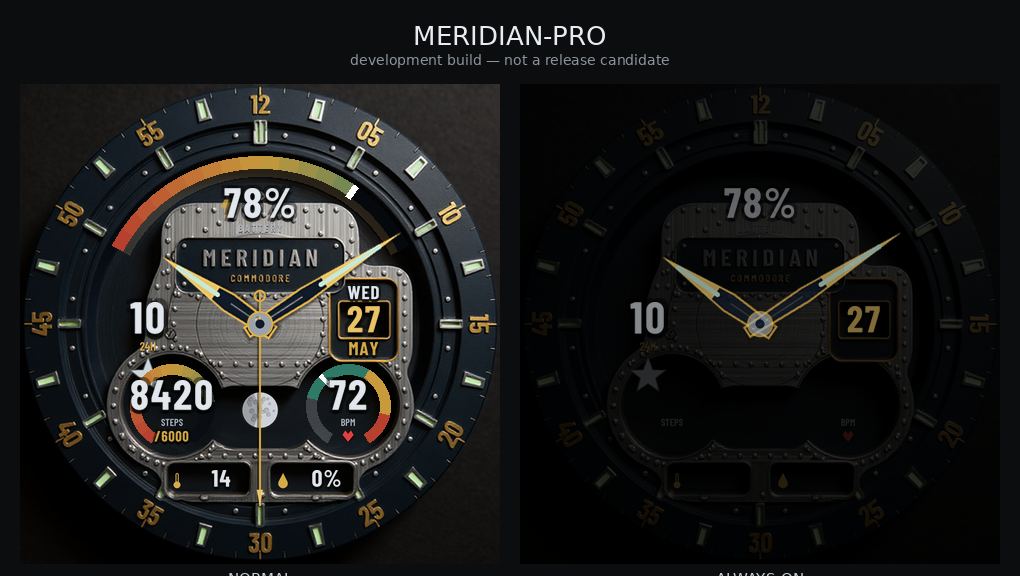
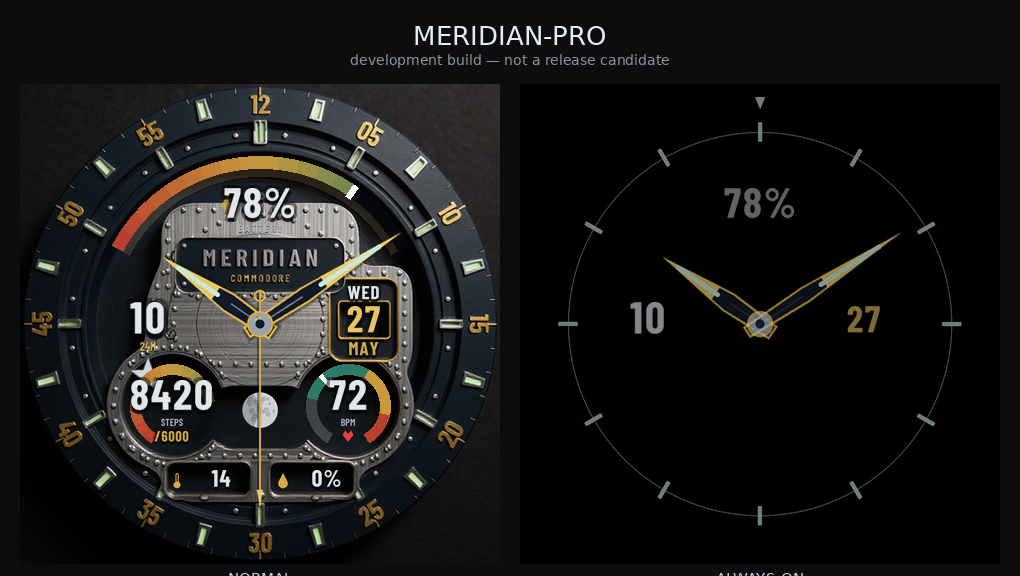
MERIDIAN PRO: the AOD becomes sparse, and passes its budget by 3.7x
A full-art dial dimmed to 18% still lights virtually every pixel, which
fails the on-pixel-ratio burn-in gate a commercial release must pass.
Ambient is now black carrying only the orientation skeleton - the twelve
lume cores, a hairline chapter circle, the lume triangle - under the dim
hands, 24H, day and battery readouts that were already ambient-rated.
Measured: 4.1% of the screen lit against the 15% budget, the same class as
AURELIUS's passing 3.97%.

diff --git a/tools/meridian_pro/plate.py b/tools/meridian_pro/plate.py
@@ -604,10 +604,32 @@ def dress_base(kontext_png, out_png):
 
 
 def bg_aod(base_png, out_png):
-    img = Image.open(base_png).convert("RGBA")
-    img = Image.eval(img, lambda v: v * 18 // 100)
-    img.putalpha(255)
-    img.save(out_png, optimize=True)
+    """AOD base v2: SPARSE, not dimmed. A full-art dial at 18% still lights
+    virtually every pixel, which fails the on-pixel-ratio burn-in gate a
+    commercial release must pass (AURELIUS ran at 4% of the 15% budget). So
+    ambient is black with only the orientation skeleton: the lume of the
+    twelve indices, a hairline chapter circle, and the lume triangle. The
+    dim hands, 24H, day and battery readouts stay live on top and the total
+    stays far inside budget."""
+    img = Image.new("RGBA", (S, S), (0, 0, 0, 255))
+    d = ImageDraw.Draw(img)
+    cx, cy = CX * SS, CY * SS
+    rr = CHAPTER["ring_r"] * SS
+    d.ellipse([cx - rr, cy - rr, cx + rr, cy + rr],
+              outline=(70, 78, 88, 255), width=SS)
+    lume = tuple(int(v * 0.55) for v in P["lume"]) + (255,)
+    for h in range(12):
+        deg = h * 30
+        w = CHAPTER["lume_w"] * SS
+        l = CHAPTER["baton_l"] * SS * 0.8
+        tile = Image.new("RGBA", (int(w * 4), int(l * 1.5)), (0, 0, 0, 0))
+        ImageDraw.Draw(tile).rounded_rectangle(
+            [w * 1.5, l * 0.25, w * 2.5, l * 0.25 + l], radius=SS, fill=lume)
+        rotated_paste(img, tile, _at(cx, cy, rr, deg), deg)
+    tip = _at(cx, cy, (BEZEL["numeral_r"] - 6) * SS, 0)
+    d.polygon([tip, (tip[0] - 5 * SS, tip[1] - 12 * SS),
+               (tip[0] + 5 * SS, tip[1] - 12 * SS)], fill=lume)
+    img.resize((CANVAS, CANVAS), Image.LANCZOS).save(out_png, optimize=True)
 
 
 # ---------------------------------------------------------------- hands
